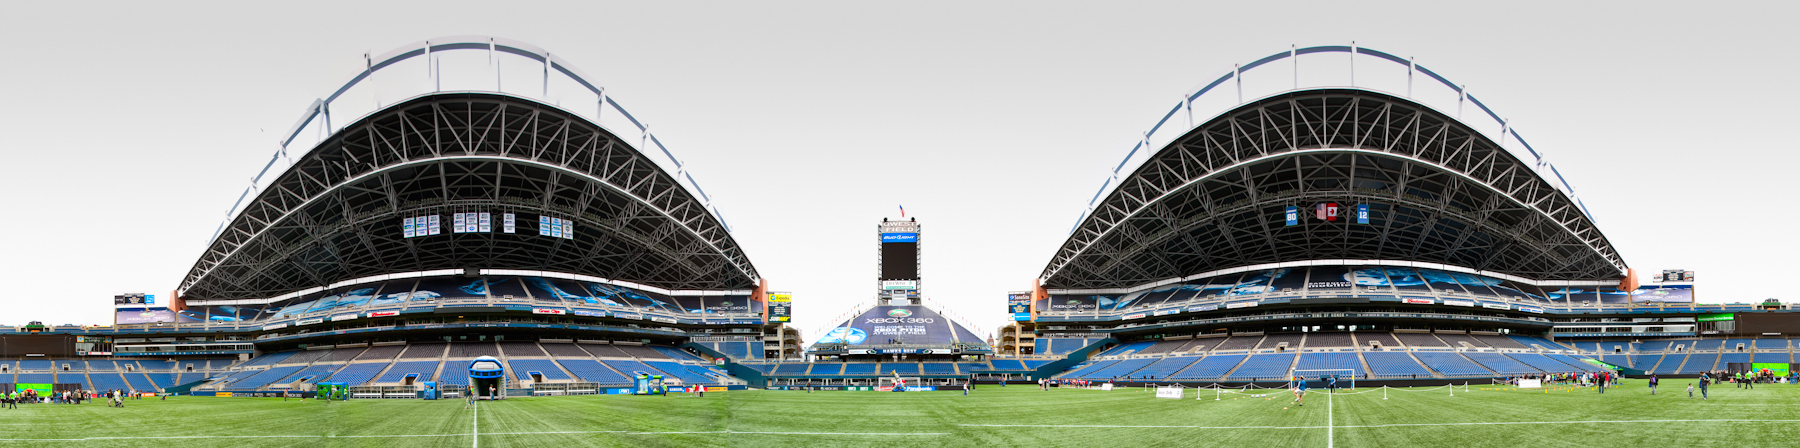
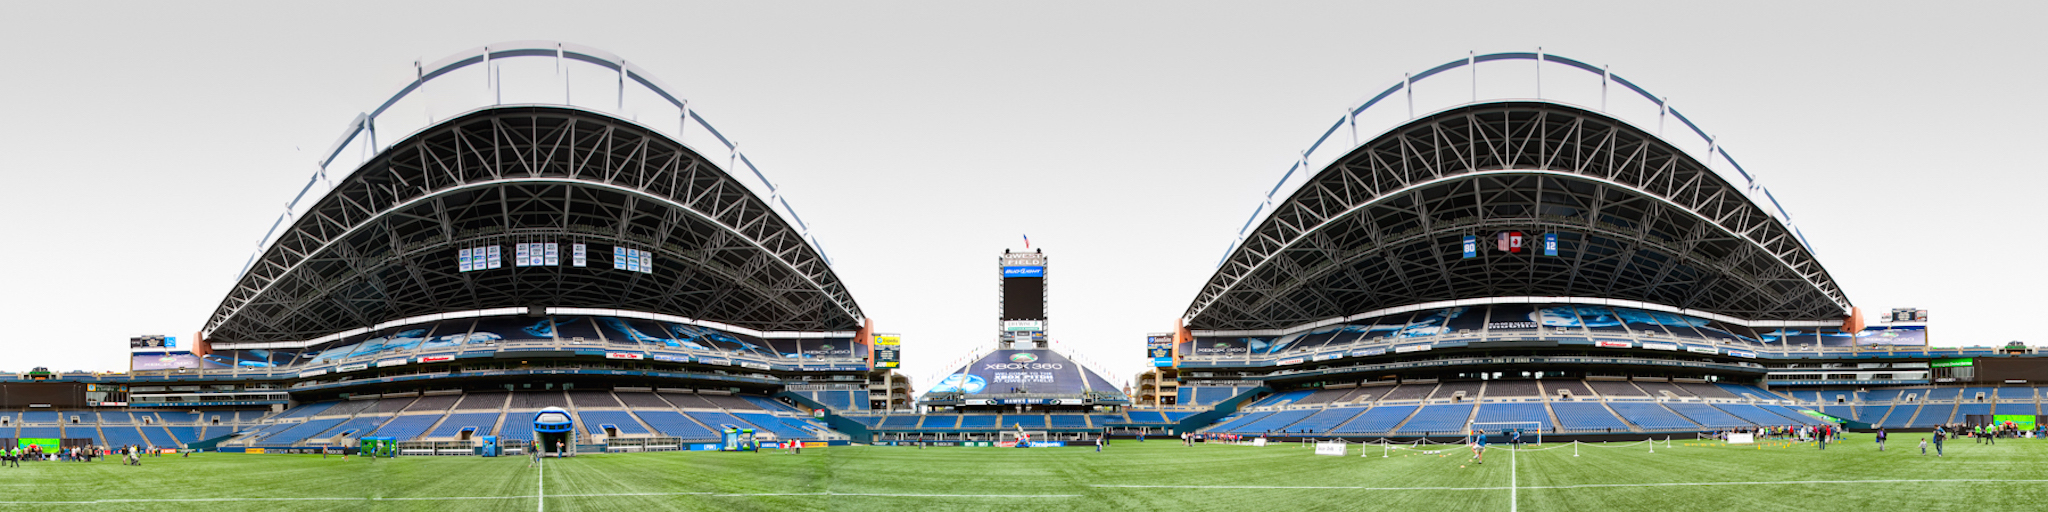
finished background moving

diff --git a/bundle.js b/bundle.js
@@ -45,35 +45,43 @@
 /***/ function(module, exports, __webpack_require__) {
 
 	var WIDTH = screen.width * window.devicePixelRatio,
-	    HEIGHT = screen.height * window.devicePixelRatio;
+	    HEIGHT = screen.height * window.devicePixelRatio,
+	    ASPECTRATIO = HEIGHT/WIDTH;
 	var renderer = PIXI.autoDetectRenderer( HEIGHT, WIDTH, {backgroundColor : 0xD0D0D0, antialiase:true});
 	document.body.appendChild(renderer.view);
 
 	// create the root of the scene graph
 	var stage = new PIXI.Container();
 
-	var farBackground, farDistortedBackground, texture;
+	var farTilingSprite, farDistortedBackground, texture;
 	var setupBackground = function(resources, stage){
 	    console.log(resources);
 
-	    texture = resources.farBackground.texture;
-	    farBackground = new PIXI.extras.TilingSprite(texture, HEIGHT, WIDTH );
-	    farBackground.position.x = 0;
-	    farBackground.position.y = 0;
-	    farBackground.tilePosition.x = 0;
-	    farBackground.tilePosition.y = 0;
+	    imageTexture = resources.farTilingSprite.texture;
+	    farTilingSprite = new PIXI.extras.TilingSprite(imageTexture, HEIGHT, WIDTH );
+	    farTilingSprite.position.x = 0;
+	    farTilingSprite.position.y = 0;
+	    farTilingSprite.tilePosition.x = 0;
+	    farTilingSprite.tilePosition.y = -(screen.width - imageTexture.height)/2;
 
-	    // console.log(farBackground.height);
+	    textureRenderer = new PIXI.CanvasRenderer(HEIGHT, WIDTH);
+	    texture = new PIXI.RenderTexture(textureRenderer, HEIGHT, WIDTH);
+	    texture.render(farTilingSprite);
+
 
 	    farDistortedBackground = new PIXI.mesh.Mesh(texture,
 	        new Float32Array(
 	            [0, 0,
-	            0, farBackground.width,
-	            farBackground.height, 0,
-	            farBackground.width, farBackground.height]), // Vertices
-	        new Float32Array([0, 0, 0, 1, 1, 0, 1, 1]), // UV Mapping Coords
+	            0, HEIGHT,
+	            WIDTH, 0,
+	            WIDTH, HEIGHT]), // Vertices
+	        new Float32Array([
+	                0, 0, 0, 1, 1, 0, 1, 1
+	            ]), // UV Mapping Coords
 	        new Uint16Array([0, 1, 2, 3]) // Vertex indices
 	    ); 
+	    farDistortedBackground.width = HEIGHT;
+	    farDistortedBackground.height = WIDTH;
 	    stage.addChild(farDistortedBackground);
 	}
 
@@ -96,20 +104,18 @@
 	    stage.addChild(animation);
 	}
 
-	var update = function(){
-
-	}
-
 	function animate() {
 	    requestAnimationFrame(animate);
 
-	    farDistortedBackground.position.x += 0.128;
+	    farTilingSprite.tilePosition.x -= 0.512;
+	    texture.render(farTilingSprite);
+	    farDistortedBackground.texture.update();
 	    // render the root container
 	    renderer.render(stage);
 	}
 
 	PIXI.loader
-	    .add('farBackground', "/assets/far-background.jpg")
+	    .add('farTilingSprite', "/assets/far-background.jpg")
 	    .add('femaleAthlete', './assets/skeleton.json')
 	    .once("complete", function(loader, resources){
 	        setupBackground(resources, stage);

diff --git a/main.js b/main.js
@@ -1,33 +1,41 @@
 var WIDTH = screen.width * window.devicePixelRatio,
-    HEIGHT = screen.height * window.devicePixelRatio;
+    HEIGHT = screen.height * window.devicePixelRatio,
+    ASPECTRATIO = HEIGHT/WIDTH;
 var renderer = PIXI.autoDetectRenderer( HEIGHT, WIDTH, {backgroundColor : 0xD0D0D0, antialiase:true});
 document.body.appendChild(renderer.view);
 
 // create the root of the scene graph
 var stage = new PIXI.Container();
 
-var farBackground, farDistortedBackground, texture;
+var farTilingSprite, farDistortedBackground, texture;
 var setupBackground = function(resources, stage){
     console.log(resources);
 
-    texture = resources.farBackground.texture;
-    farBackground = new PIXI.extras.TilingSprite(texture, HEIGHT, WIDTH );
-    farBackground.position.x = 0;
-    farBackground.position.y = 0;
-    farBackground.tilePosition.x = 0;
-    farBackground.tilePosition.y = 0;
+    imageTexture = resources.farTilingSprite.texture;
+    farTilingSprite = new PIXI.extras.TilingSprite(imageTexture, HEIGHT, WIDTH );
+    farTilingSprite.position.x = 0;
+    farTilingSprite.position.y = 0;
+    farTilingSprite.tilePosition.x = 0;
+    farTilingSprite.tilePosition.y = -(screen.width - imageTexture.height)/2;
 
-    // console.log(farBackground.height);
+    textureRenderer = new PIXI.CanvasRenderer(HEIGHT, WIDTH);
+    texture = new PIXI.RenderTexture(textureRenderer, HEIGHT, WIDTH);
+    texture.render(farTilingSprite);
+
 
     farDistortedBackground = new PIXI.mesh.Mesh(texture,
         new Float32Array(
             [0, 0,
-            0, farBackground.width,
-            farBackground.height, 0,
-            farBackground.width, farBackground.height]), // Vertices
-        new Float32Array([0, 0, 0, 1, 1, 0, 1, 1]), // UV Mapping Coords
+            0, HEIGHT,
+            WIDTH, 0,
+            WIDTH, HEIGHT]), // Vertices
+        new Float32Array([
+                0, 0, 0, 1, 1, 0, 1, 1
+            ]), // UV Mapping Coords
         new Uint16Array([0, 1, 2, 3]) // Vertex indices
     ); 
+    farDistortedBackground.width = HEIGHT;
+    farDistortedBackground.height = WIDTH;
     stage.addChild(farDistortedBackground);
 }
 
@@ -50,20 +58,18 @@ var setupAnimation = function(resources, stage){
     stage.addChild(animation);
 }
 
-var update = function(){
-
-}
-
 function animate() {
     requestAnimationFrame(animate);
 
-    farDistortedBackground.position.x += 0.128;
+    farTilingSprite.tilePosition.x -= 0.512;
+    texture.render(farTilingSprite);
+    farDistortedBackground.texture.update();
     // render the root container
     renderer.render(stage);
 }
 
 PIXI.loader
-    .add('farBackground', "/assets/far-background.jpg")
+    .add('farTilingSprite', "/assets/far-background.jpg")
     .add('femaleAthlete', './assets/skeleton.json')
     .once("complete", function(loader, resources){
         setupBackground(resources, stage);
